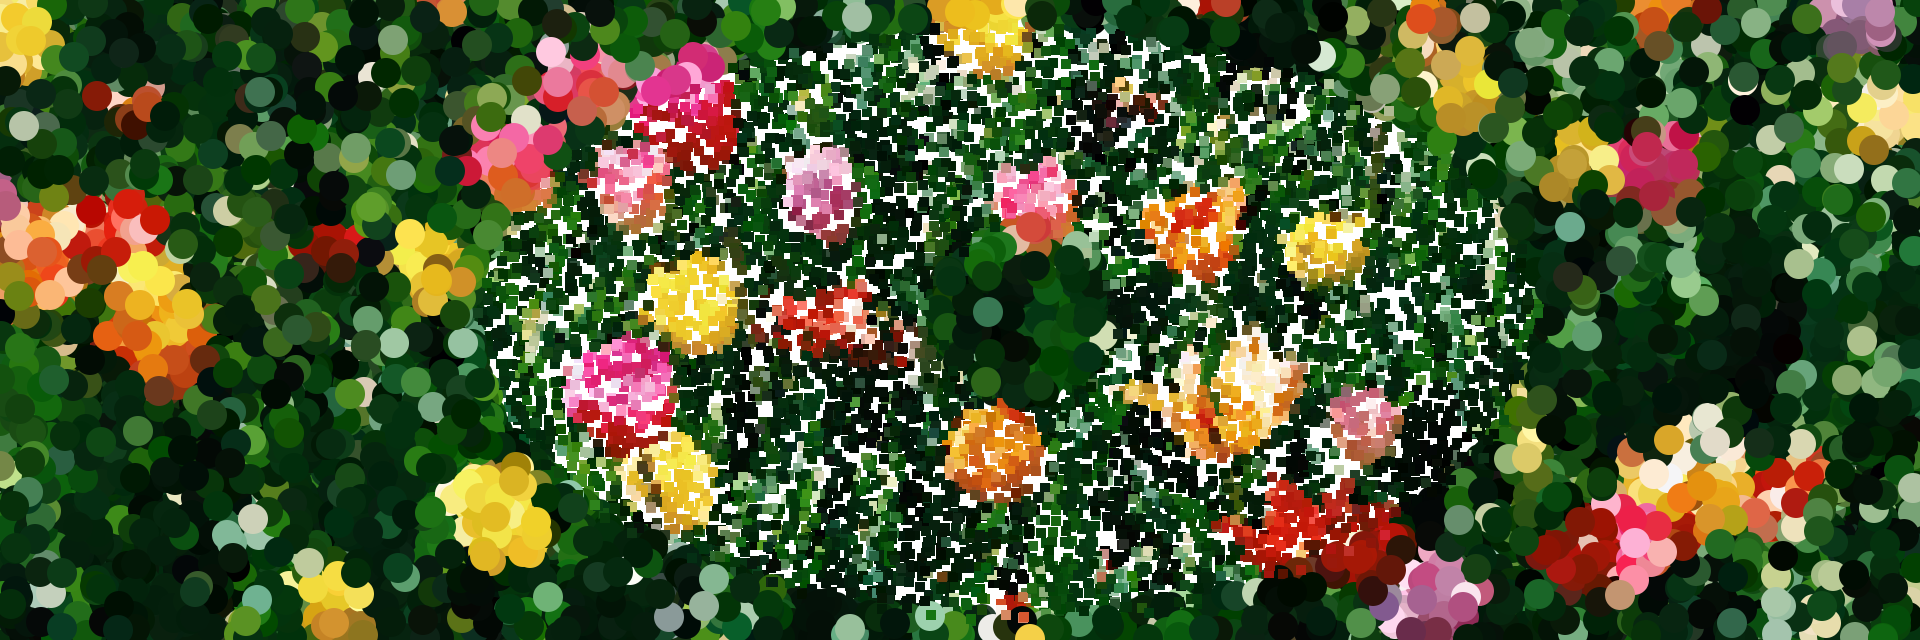
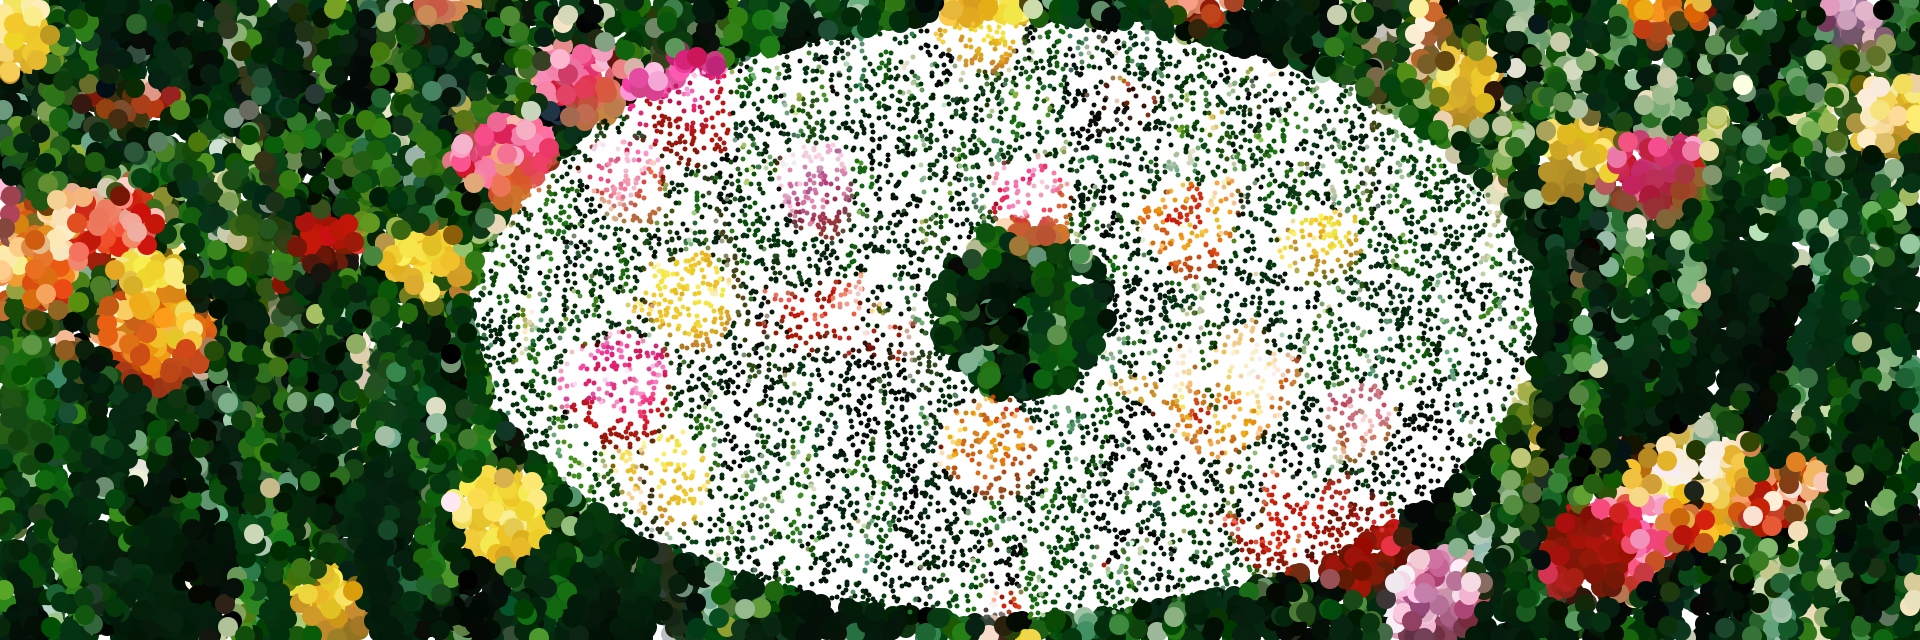
Updated readme, output_3, preview, sketch, thumbnail

diff --git a/sketch.js b/sketch.js
@@ -3,9 +3,9 @@ let maskImg=null;
 let renderCounter=0;
 
 // change these three lines as appropiate
-let sourceFile = "input_1.jpg";
-let maskFile   = "mask_1.png";
-let outputFile = "output_1.png";
+let sourceFile = "input_3.jpg";
+let maskFile   = "mask_3.png";
+let outputFile = "output_3.png";
 
 function preload() {
   sourceImg = loadImage(sourceFile);
@@ -31,12 +31,12 @@ function draw () {
     let mask = maskImg.get(x, y);
     fill(pix);
     if(mask[0] > 128) {
-      let pointSize = 30;
+      let pointSize = 20;
       ellipse(x, y, pointSize, pointSize);
     }
     else {
-      let pointSize = 10;
-      rect(x, y, pointSize, pointSize);
+      let pointSize = 5;
+      ellipse(x, y, pointSize, pointSize);
     }
   }
   renderCounter = renderCounter + 1;

diff --git a/README.md b/README.md
@@ -1,6 +1,6 @@
 
 ## Creative Coding 2: Custom Pixel
 
-Today, I was able to put in my own images and not have the code crash on me. I haven't found it too hard to understand what I need to change but I haven't updated my masks yet but I defenitely understand how to update the files and save the images. I took these images when I was on holiday in 2018 and the flowers create a lot of interest with all of the different colours
+Today, I was able to put in my own images and not have the code crash on me. I haven't found it too hard to understand what I need to change but I haven't updated my masks yet but I defenitely understand how to update the files and save the images. I took these images when I was on holiday in 2018 and the flowers create a lot of interest with all of the different colours. I'm now checking if my preview and thumbnails are updating
 
 The images above are photos of Keukenhof flower garden in Lisse, Netherlands, algorithmically processed with a lightly modified version of the [p5.js Pointillism example](https://p5js.org/examples/image-pointillism.html). The masks for each photo highlight various objects. Replace this text with your own which explains the source of your photos, masking, and applied algorithm.
